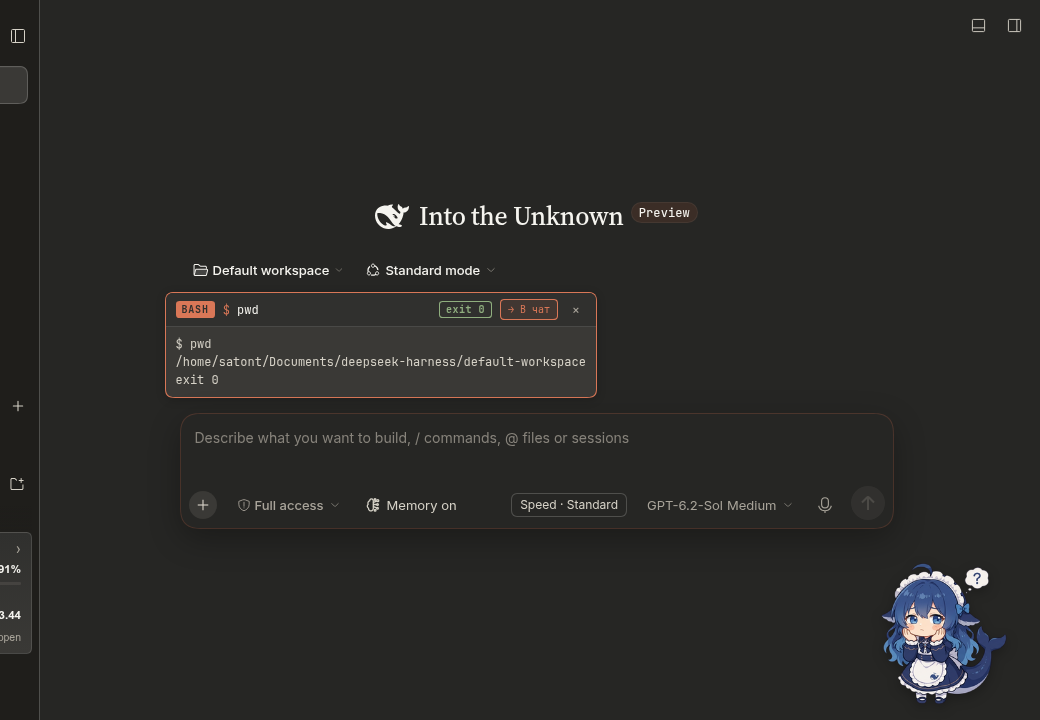
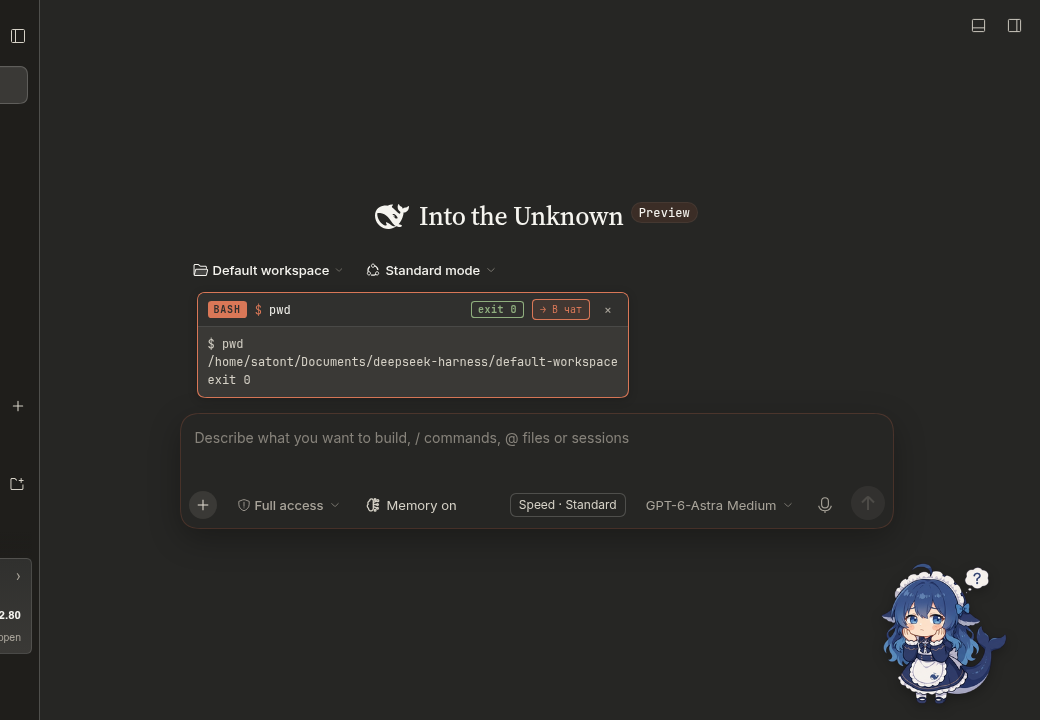
Align inline bash card with main column

diff --git a/plugins/inline-bash/lib/client.js b/plugins/inline-bash/lib/client.js
@@ -37,7 +37,7 @@ window.__ModuleLoader__.load({
 		const CSS_TAG = 'dsh-inline-bash/inline-bash.css';
 
 		const CSS = `
-		.ibx-root{display:flex;flex-direction:column;gap:6px;margin:0 0 8px;width:fit-content;max-width:min(100%,680px);min-width:min(100%,360px);font-family:var(--claude-mono,ui-monospace,"SF Mono",Menlo,monospace)}
+		.ibx-root{display:flex;flex-direction:column;gap:6px;width:fit-content;max-width:min(calc(100% - 32px),var(--dsh-chat-content-width,920px));min-width:min(100%,360px);margin:0 0 8px max(0px,calc((100% - var(--dsh-chat-content-width,920px)) / 2));font-family:var(--claude-mono,ui-monospace,"SF Mono",Menlo,monospace)}
 		.ibx-mode{display:flex;align-items:center;gap:8px;padding:5px 10px;border-radius:8px;border:1px solid var(--claude-clay,rgba(217,119,87,.55));background:rgba(217,119,87,.10);color:var(--claude-clay,#d97757);font-size:12px;line-height:1.4}
 		.ibx-badge{font-family:inherit;font-size:10px;font-weight:700;letter-spacing:.08em;padding:2px 6px;border-radius:4px;background:var(--claude-clay,#d97757);color:var(--claude-surface,#1f1e1b)}
 		.ibx-hint{opacity:.8;font-size:11px}

diff --git a/plugins/inline-bash/src/client.js b/plugins/inline-bash/src/client.js
@@ -31,7 +31,7 @@ const MAX_BYTES = 8 * 1024;
 const CSS_TAG = 'dsh-inline-bash/inline-bash.css';
 
 const CSS = `
-.ibx-root{display:flex;flex-direction:column;gap:6px;margin:0 0 8px;width:fit-content;max-width:min(100%,680px);min-width:min(100%,360px);font-family:var(--claude-mono,ui-monospace,"SF Mono",Menlo,monospace)}
+.ibx-root{display:flex;flex-direction:column;gap:6px;width:fit-content;max-width:min(calc(100% - 32px),var(--dsh-chat-content-width,920px));min-width:min(100%,360px);margin:0 0 8px max(0px,calc((100% - var(--dsh-chat-content-width,920px)) / 2));font-family:var(--claude-mono,ui-monospace,"SF Mono",Menlo,monospace)}
 .ibx-mode{display:flex;align-items:center;gap:8px;padding:5px 10px;border-radius:8px;border:1px solid var(--claude-clay,rgba(217,119,87,.55));background:rgba(217,119,87,.10);color:var(--claude-clay,#d97757);font-size:12px;line-height:1.4}
 .ibx-badge{font-family:inherit;font-size:10px;font-weight:700;letter-spacing:.08em;padding:2px 6px;border-radius:4px;background:var(--claude-clay,#d97757);color:var(--claude-surface,#1f1e1b)}
 .ibx-hint{opacity:.8;font-size:11px}

diff --git a/plugins/inline-bash/README.md b/plugins/inline-bash/README.md
@@ -70,8 +70,9 @@ so a page reload picks the new `client.js`).
 | `→ В чат` on the card | Sends the command result (bounded display text) as one model message to the current chat; the button changes to `Отправлено` |
 | Any ordinary draft | Completely untouched — Enter is never intercepted |
 
-The card is content-sized and capped at **680 px**, so short commands no longer
-stretch across the whole composer. The `→ В чат` button posts the displayed
+The card is content-sized and aligned with the main conversation column (its width is
+bounded by `--dsh-chat-content-width`, up to 920 px), so it no longer sticks to the far left
+or stretches across the whole composer. The `→ В чат` button posts the displayed
 result (plus a truncation note when applicable) through
 `conversation.sendSession(...)`, which starts a normal model turn in the same
 Session; the command itself still never enters model context automatically.
